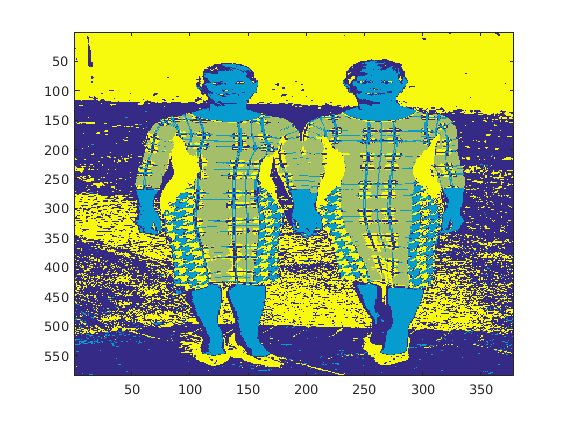
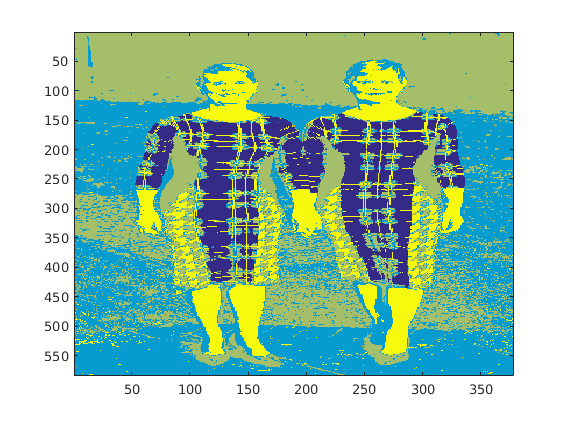
progress

diff --git a/segmentMain.m b/segmentMain.m
@@ -14,7 +14,7 @@ L = im2double(imread('images/car.jpg'));
 k = 14;
 winSize = 55;
 numColorRegions = 4;
-numTextureRegions = 12;
+numTextureRegions = 10;
 
 % Load the filter bank.
 load('data/filterBank.mat', 'F');
